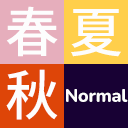
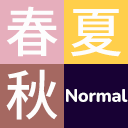
add new cards

Changed region(s): [[0.0, 0.5, 0.5, 1.0]]

diff --git a/public/seasonscheck.html b/public/seasonscheck.html
@@ -213,7 +213,12 @@
                         <div class="empty"></div>
                     </div>
                 </div>
-                <div class="autumn"></div>
+                <div class="autumn">
+                    <div class="card__section ur__section kaho__autumn__ur"></div>
+                    <div class="card__section ur__section kaho__autumn__ur"></div>
+                    <div class="card__section sr__section kaho__autumn__sr"></div>
+                    <div class="card__section sr__section kaho__autumn__sr"></div>
+                </div>
                 <!-- <div class="winter"></div> -->
                 <div class="normal">
                     <div class="card__section ur__section kaho__common__ur">
@@ -499,7 +504,27 @@
                         <div class="empty"></div>
                     </div>
                 </div>
-                <div class="autumn"></div>
+                <div class="autumn">
+                    <div class="card__section ur__section kozue__autumn__ur">
+                        <div class="card kozue__seasons__ur">
+                            <div class="card__icon">
+                                <img class="cardimg" src="/autumn/kozue/ur/autumncolor.png" />
+                            </div>
+                            <div class="overlay invisible">
+                                <img class="cardimg animation" src="/overlay/rainbow.png" />
+                            </div>
+                            <div class="overlay__autumn"></div>
+                            <div class="limitbreak invisible">
+                                <img class="cardimg" src="/limitbreak/limitbreak1.png" />
+                            </div>
+                        </div>
+                        <div class="empty"></div>
+                        <div class="empty"></div>
+                    </div>
+                    <div class="card__section ur__section kozue__autumn__ur"></div>
+                    <div class="card__section sr__section kozue__autumn__sr"></div>
+                    <div class="card__section sr__section kozue__autumn__sr"></div>
+                </div>
                 <!-- <div class="winter"></div> -->
                 <div class="normal">
                     <div class="card__section ur__section kozue__common__ur">
@@ -814,7 +839,12 @@
                         <div class="empty"></div>
                     </div>
                 </div>
-                <div class="autumn"></div>
+                <div class="autumn">
+                    <div class="card__section ur__section sayaka__autumn__ur"></div>
+                    <div class="card__section ur__section sayaka__autumn__ur"></div>
+                    <div class="card__section sr__section sayaka__autumn__sr"></div>
+                    <div class="card__section sr__section sayaka__autumn__sr"></div>
+                </div>
                 <!-- <div class="winter"></div> -->
                 <div class="normal">
                     <div class="card__section ur__section sayaka__common__ur">
@@ -1100,7 +1130,27 @@
                         <div class="empty"></div>
                     </div>
                 </div>
-                <div class="autumn"></div>
+                <div class="autumn">
+                    <div class="card__section ur__section tsuzuri__autumn__ur">
+                        <div class="card tsuzuri__seasons__ur">
+                            <div class="card__icon">
+                                <img class="cardimg" src="/autumn/tsuzuri/ur/autumncolor.png" />
+                            </div>
+                            <div class="overlay invisible">
+                                <img class="cardimg animation" src="/overlay/rainbow.png" />
+                            </div>
+                            <div class="overlay__autumn"></div>
+                            <div class="limitbreak invisible">
+                                <img class="cardimg" src="/limitbreak/limitbreak1.png" />
+                            </div>
+                        </div>
+                        <div class="empty"></div>
+                        <div class="empty"></div>
+                    </div>
+                    <div class="card__section ur__section tsuzuri__autumn__ur"></div>
+                    <div class="card__section sr__section tsuzuri__autumn__sr"></div>
+                    <div class="card__section sr__section tsuzuri__autumn__sr"></div>
+                </div>
                 <!-- <div class="winter"></div> -->
                 <div class="normal">
                     <div class="card__section ur__section tsuzuri__common__ur">
@@ -1269,7 +1319,10 @@
                         <div class="empty"></div>
                     </div>
                 </div>
-                <div class="autumn"></div>
+                <div class="autumn">
+                    <div class="card__section ur__section rurino__autumn__ur"></div>
+                    <div class="card__section sr__section rurino__autumn__sr"></div>
+                </div>
                 <!-- <div class="winter"></div> -->
                 <div class="normal">
                     <div class="card__section ur__section rurino__common__ur">
@@ -1313,7 +1366,18 @@
                                 <img class="cardimg" src="/limitbreak/limitbreak1.png" />
                             </div>
                         </div>
-                        <div class="empty"></div>
+                        <div class="card rurino__normal__sr">
+                            <div class="card__icon">
+                                <img class="cardimg" src="/normal/rurino/sr/dododo.png" />
+                            </div>
+                            <div class="overlay invisible">
+                                <img class="cardimg animation" src="/overlay/gold.png" />
+                            </div>
+                            <div class="overlay__normal"></div>
+                            <div class="limitbreak invisible">
+                                <img class="cardimg" src="/limitbreak/limitbreak1.png" />
+                            </div>
+                        </div>
                     </div>
                 </div>
             </div>
@@ -1348,7 +1412,10 @@
                         <div class="empty"></div>
                     </div>
                 </div>
-                <div class="autumn"></div>
+                <div class="autumn">
+                    <div class="card__section ur__section megumi__autumn__ur"></div>
+                    <div class="card__section sr__section megumi__autumn__sr"></div>
+                </div>
                 <!-- <div class="winter"></div> -->
                 <div class="normal">
                     <div class="card__section ur__section megumi__common__ur">
@@ -1392,7 +1459,18 @@
                                 <img class="cardimg" src="/limitbreak/limitbreak1.png" />
                             </div>
                         </div>
-                        <div class="empty"></div>
+                        <div class="card megumi__normal__sr">
+                            <div class="card__icon">
+                                <img class="cardimg" src="/normal/megumi/sr/dododo.png" />
+                            </div>
+                            <div class="overlay invisible">
+                                <img class="cardimg animation" src="/overlay/gold.png" />
+                            </div>
+                            <div class="overlay__normal"></div>
+                            <div class="limitbreak invisible">
+                                <img class="cardimg" src="/limitbreak/limitbreak1.png" />
+                            </div>
+                        </div>
                     </div>
                 </div>
             </div>

diff --git a/public/seasonscheck.css b/public/seasonscheck.css
@@ -79,7 +79,7 @@ body::-webkit-scrollbar {
 .autumn {
     width: 23.4375vw;
     max-width: 450px;
-    background-color: orangered;
+    background-color: #a56861;
 }
 
 .normal {
@@ -151,12 +151,23 @@ body::-webkit-scrollbar {
     opacity: 70%;
     position: absolute;
 }
+
 .overlay__summer {
     width: 6.667vw;
     height: 6.667vw;
     max-width: 128px;
     max-height: 128px;
     background-color: #ffcf4b;
+    opacity: 70%;
+    position: absolute;
+}
+
+.overlay__autumn {
+    width: 6.667vw;
+    height: 6.667vw;
+    max-width: 128px;
+    max-height: 128px;
+    background-color: #a56861;
     opacity: 70%;
     position: absolute;
 }
